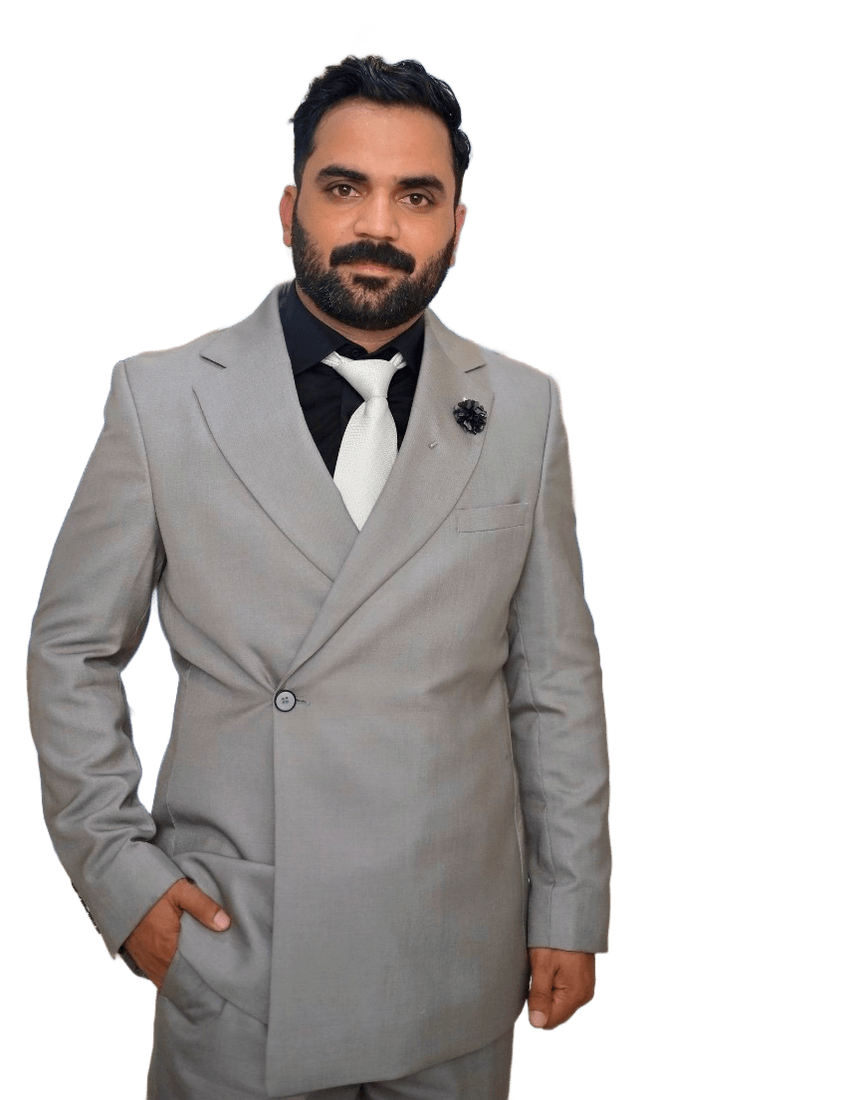
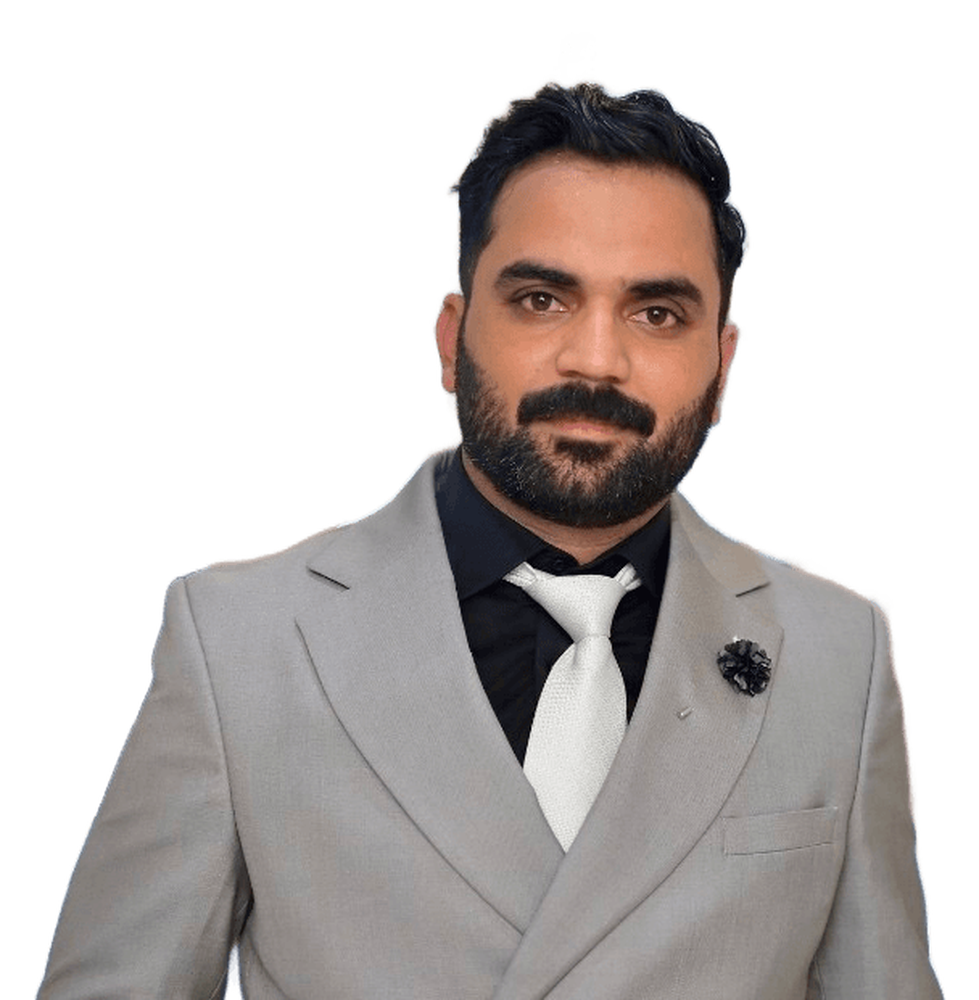
Hero photo: crop above the navel and enlarge
Re-crop the background-removed portrait just above the jacket button
(chest-and-shoulders framing), size it by width so the squarer image
never distorts, let it bleed into the right margin to fill the black
panel, and move the experience card beside the head so the lapel and
tie stay visible. Assets bumped to v=mono7, hero image URLs versioned.

Claude-Session: https://claude.ai/code/session_01UfuQZtyZ4MQeqDu5Xvr11Y

diff --git a/style.css b/style.css
@@ -322,18 +322,19 @@ section { padding: clamp(74px, 11vh, 130px) 0; }
 /* photo on the black panel */
 .hero-photo {
   position: relative; z-index: 1; display: flex; align-items: flex-end; justify-content: center;
+  margin-right: calc(-1 * var(--gutter));   /* bleed into the black margin so the portrait can be larger */
   opacity: 0; animation: fadeUp .9s ease .45s forwards;
 }
 .hero-photo picture { position: relative; z-index: 1; display: block; }
 .hero-photo img {
-  height: min(80vh, 760px); width: auto; max-width: 100%;
+  width: min(100%, 640px, 80vh); height: auto;
   display: block;
   filter: drop-shadow(0 28px 48px rgba(0,0,0,0.55));
 }
 /* soft accent glow behind the figure */
 .hero-photo::before {
   content: ''; position: absolute; z-index: 0;
-  left: 50%; bottom: 18%; width: 78%; aspect-ratio: 1; transform: translateX(-50%);
+  left: 50%; bottom: 6%; width: 84%; aspect-ratio: 1; transform: translateX(-50%);
   background: radial-gradient(circle, rgba(37,99,235,0.42) 0%, rgba(37,99,235,0.14) 42%, transparent 70%);
   filter: blur(8px);
   pointer-events: none;
@@ -344,7 +345,7 @@ section { padding: clamp(74px, 11vh, 130px) 0; }
   background: linear-gradient(90deg, transparent, rgba(125,211,252,0.7), transparent);
 }
 .hero-photo-card {
-  position: absolute; left: 4%; bottom: 40px; z-index: 2;
+  position: absolute; left: 5%; top: 40%; z-index: 2;
   background: #fff; border-radius: 12px; box-shadow: var(--shadow-lg); padding: 14px 20px;
 }
 .hero-photo-card b { display: block; font-family: var(--display); font-size: 22px; font-weight: 800; color: #111; }
@@ -698,8 +699,8 @@ footer { background: var(--dark); color: #c9c9c9; padding: 60px 0 34px; }
     padding: 44px var(--gutter) 0;
     clip-path: polygon(0 34px, 100% 0, 100% 100%, 0 100%);
   }
-  .hero-photo img { height: auto; width: min(100%, 360px); }
-  .hero-photo-card { left: var(--gutter); bottom: 24px; }
+  .hero-photo img { height: auto; width: min(100%, 420px); }
+  .hero-photo-card { top: auto; right: auto; left: var(--gutter); bottom: 24px; }
   .hero-scroll { display: none; }
   .about-grid { grid-template-columns: 1fr; gap: 40px; }
   .about-img { max-width: 340px; margin: 0 auto; }

diff --git a/index.html b/index.html
@@ -48,7 +48,7 @@
   <link rel="preconnect" href="https://fonts.gstatic.com" crossorigin>
   <link href="https://fonts.googleapis.com/css2?family=Montserrat:wght@400;600;700;800&family=JetBrains+Mono:wght@400;500&display=swap" rel="stylesheet">
   <script src="ga.js"></script>
-  <link rel="stylesheet" href="style.css?v=mono5">
+  <link rel="stylesheet" href="style.css?v=mono7">
 </head>
 <body>
 
@@ -114,8 +114,8 @@
         </div>
         <div class="hero-photo">
           <picture>
-            <source srcset="profile-hero.webp" type="image/webp">
-            <img src="profile-hero.png" alt="Muhammad Usman Tufail, Planning &amp; Project Controls Engineer" width="863" height="1100" fetchpriority="high">
+            <source srcset="profile-hero.webp?v=2" type="image/webp">
+            <img src="profile-hero.png?v=2" alt="Muhammad Usman Tufail, Planning &amp; Project Controls Engineer" width="979" height="1000" fetchpriority="high">
           </picture>
           <div class="hero-photo-card">
             <b>7+ yrs</b>
@@ -438,6 +438,6 @@
     </div>
   </footer>
 
-  <script src="script.js?v=mono5"></script>
+  <script src="script.js?v=mono7"></script>
 </body>
 </html>

diff --git a/404.html b/404.html
@@ -12,7 +12,7 @@
   <link rel="preconnect" href="https://fonts.gstatic.com" crossorigin>
   <link href="https://fonts.googleapis.com/css2?family=Montserrat:wght@400;600;700;800&family=JetBrains+Mono:wght@400;500&display=swap" rel="stylesheet">
   <script src="ga.js"></script>
-  <link rel="stylesheet" href="style.css?v=mono5">
+  <link rel="stylesheet" href="style.css?v=mono7">
 </head>
 <body>
   <main id="main" style="min-height:100vh; display:flex; align-items:center; justify-content:center; text-align:center;">
@@ -27,6 +27,6 @@
       </div>
     </div>
   </main>
-  <script src="script.js?v=mono5"></script>
+  <script src="script.js?v=mono7"></script>
 </body>
 </html>

diff --git a/dashboards.html b/dashboards.html
@@ -14,7 +14,7 @@
   <link rel="preconnect" href="https://fonts.gstatic.com" crossorigin>
   <link href="https://fonts.googleapis.com/css2?family=Montserrat:wght@400;600;700;800&family=JetBrains+Mono:wght@400;500&display=swap" rel="stylesheet">
   <script src="ga.js"></script>
-  <link rel="stylesheet" href="style.css?v=mono5">
+  <link rel="stylesheet" href="style.css?v=mono7">
 </head>
 <body>
 
@@ -336,7 +336,7 @@
     </div>
   </footer>
 
-  <script src="script.js?v=mono5"></script>
-  <script src="dashboards.js?v=mono5"></script>
+  <script src="script.js?v=mono7"></script>
+  <script src="dashboards.js?v=mono7"></script>
 </body>
 </html>

diff --git a/ai-workflows.html b/ai-workflows.html
@@ -14,7 +14,7 @@
   <link rel="preconnect" href="https://fonts.gstatic.com" crossorigin>
   <link href="https://fonts.googleapis.com/css2?family=Montserrat:wght@400;600;700;800&family=JetBrains+Mono:wght@400;500&display=swap" rel="stylesheet">
   <script src="ga.js"></script>
-  <link rel="stylesheet" href="style.css?v=mono5">
+  <link rel="stylesheet" href="style.css?v=mono7">
 </head>
 <body>
 
@@ -190,6 +190,6 @@
     </div>
   </footer>
 
-  <script src="script.js?v=mono5"></script>
+  <script src="script.js?v=mono7"></script>
 </body>
 </html>

diff --git a/blog.html b/blog.html
@@ -14,7 +14,7 @@
   <link rel="preconnect" href="https://fonts.gstatic.com" crossorigin>
   <link href="https://fonts.googleapis.com/css2?family=Montserrat:wght@400;600;700;800&family=JetBrains+Mono:wght@400;500&display=swap" rel="stylesheet">
   <script src="ga.js"></script>
-  <link rel="stylesheet" href="style.css?v=mono5">
+  <link rel="stylesheet" href="style.css?v=mono7">
 </head>
 <body>
 
@@ -157,6 +157,6 @@
     </div>
   </footer>
 
-  <script src="script.js?v=mono5"></script>
+  <script src="script.js?v=mono7"></script>
 </body>
 </html>

diff --git a/case-balancework.html b/case-balancework.html
@@ -14,7 +14,7 @@
   <link rel="preconnect" href="https://fonts.gstatic.com" crossorigin>
   <link href="https://fonts.googleapis.com/css2?family=Montserrat:wght@400;600;700;800&family=JetBrains+Mono:wght@400;500&display=swap" rel="stylesheet">
   <script src="ga.js"></script>
-  <link rel="stylesheet" href="style.css?v=mono5">
+  <link rel="stylesheet" href="style.css?v=mono7">
 </head>
 <body>
 
@@ -209,6 +209,6 @@
     </div>
   </footer>
 
-  <script src="script.js?v=mono5"></script>
+  <script src="script.js?v=mono7"></script>
 </body>
 </html>

diff --git a/case-fireschool.html b/case-fireschool.html
@@ -14,7 +14,7 @@
   <link rel="preconnect" href="https://fonts.gstatic.com" crossorigin>
   <link href="https://fonts.googleapis.com/css2?family=Montserrat:wght@400;600;700;800&family=JetBrains+Mono:wght@400;500&display=swap" rel="stylesheet">
   <script src="ga.js"></script>
-  <link rel="stylesheet" href="style.css?v=mono5">
+  <link rel="stylesheet" href="style.css?v=mono7">
 </head>
 <body>
 
@@ -203,6 +203,6 @@
     </div>
   </footer>
 
-  <script src="script.js?v=mono5"></script>
+  <script src="script.js?v=mono7"></script>
 </body>
 </html>

diff --git a/case-gilgit.html b/case-gilgit.html
@@ -14,7 +14,7 @@
   <link rel="preconnect" href="https://fonts.gstatic.com" crossorigin>
   <link href="https://fonts.googleapis.com/css2?family=Montserrat:wght@400;600;700;800&family=JetBrains+Mono:wght@400;500&display=swap" rel="stylesheet">
   <script src="ga.js"></script>
-  <link rel="stylesheet" href="style.css?v=mono5">
+  <link rel="stylesheet" href="style.css?v=mono7">
 </head>
 <body>
 
@@ -184,6 +184,6 @@
     </div>
   </footer>
 
-  <script src="script.js?v=mono5"></script>
+  <script src="script.js?v=mono7"></script>
 </body>
 </html>

diff --git a/case-hlph.html b/case-hlph.html
@@ -14,7 +14,7 @@
   <link rel="preconnect" href="https://fonts.gstatic.com" crossorigin>
   <link href="https://fonts.googleapis.com/css2?family=Montserrat:wght@400;600;700;800&family=JetBrains+Mono:wght@400;500&display=swap" rel="stylesheet">
   <script src="ga.js"></script>
-  <link rel="stylesheet" href="style.css?v=mono5">
+  <link rel="stylesheet" href="style.css?v=mono7">
 </head>
 <body>
 
@@ -203,6 +203,6 @@
     </div>
   </footer>
 
-  <script src="script.js?v=mono5"></script>
+  <script src="script.js?v=mono7"></script>
 </body>
 </html>

diff --git a/projects.html b/projects.html
@@ -14,7 +14,7 @@
   <link rel="preconnect" href="https://fonts.gstatic.com" crossorigin>
   <link href="https://fonts.googleapis.com/css2?family=Montserrat:wght@400;600;700;800&family=JetBrains+Mono:wght@400;500&display=swap" rel="stylesheet">
   <script src="ga.js"></script>
-  <link rel="stylesheet" href="style.css?v=mono5">
+  <link rel="stylesheet" href="style.css?v=mono7">
 </head>
 <body>
 
@@ -138,6 +138,6 @@
     </div>
   </footer>
 
-  <script src="script.js?v=mono5"></script>
+  <script src="script.js?v=mono7"></script>
 </body>
 </html>

diff --git a/resources.html b/resources.html
@@ -14,7 +14,7 @@
   <link rel="preconnect" href="https://fonts.gstatic.com" crossorigin>
   <link href="https://fonts.googleapis.com/css2?family=Montserrat:wght@400;600;700;800&family=JetBrains+Mono:wght@400;500&display=swap" rel="stylesheet">
   <script src="ga.js"></script>
-  <link rel="stylesheet" href="style.css?v=mono5">
+  <link rel="stylesheet" href="style.css?v=mono7">
 </head>
 <body>
 
@@ -177,6 +177,6 @@
     </div>
   </footer>
 
-  <script src="script.js?v=mono5"></script>
+  <script src="script.js?v=mono7"></script>
 </body>
 </html>
